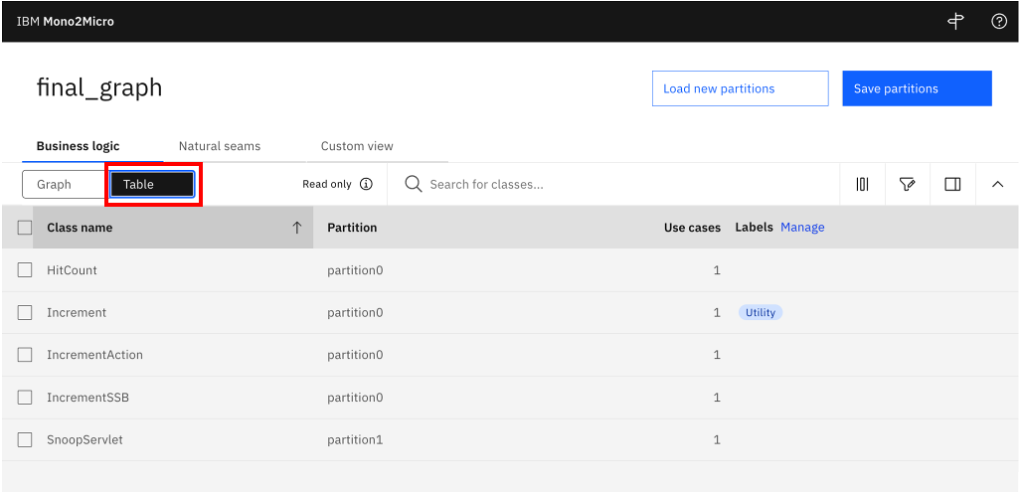
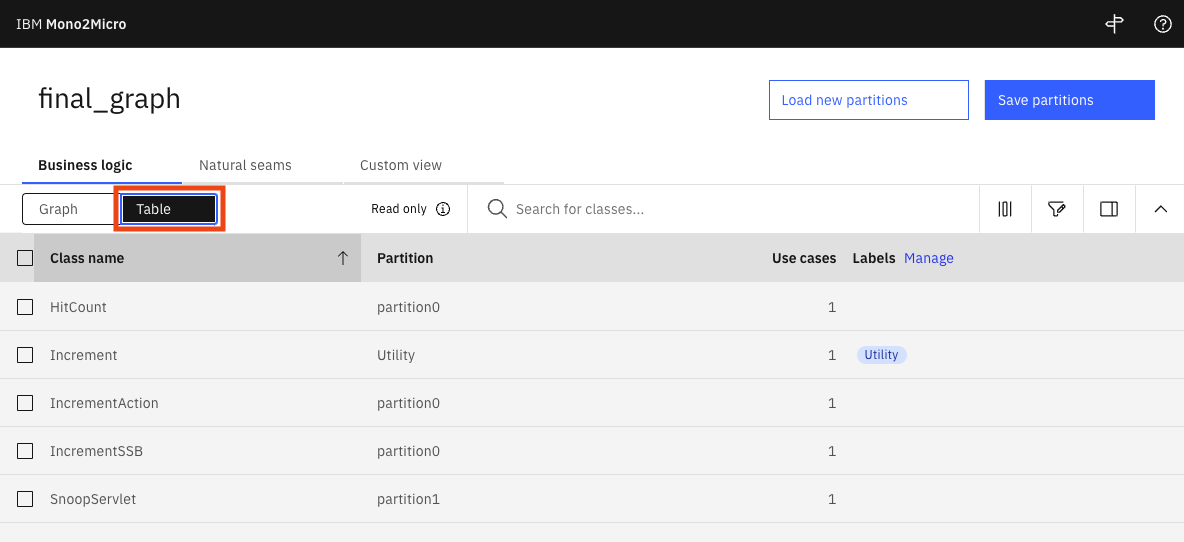
improving explanation about utility partition

diff --git a/1152-Mono2Micro-refactorJavaAppsToMicroservices/README.md b/1152-Mono2Micro-refactorJavaAppsToMicroservices/README.md
@@ -540,7 +540,7 @@ command line tool.
     command output:     
         
         accept_license_flag = true
-        license_key = L-CQBY-93TJUZ
+        license_key = L-KNAV-6S5BZN
 
     b. view the configuration
 
@@ -548,7 +548,7 @@ command line tool.
     
     command output: 
 
-        update_check_last = 2023-04-14
+        update_check_last = 2023-06-27
         license_type = 2
         container_engine = docker
         update_check_frequency = 30
@@ -1345,15 +1345,15 @@ In this exercise, we will ensure that the Web components(Servlets,
  
     ![](./images/media/image55.png)
 
-    Note that by using “Table” mode the classes can have labels. When the AI engine recognizes a class as a “Utility” class, it automatically displays on the Workbench UI the “Utility” label on the “Table” mode. A Utility class defines a set of methods that perform common tasks.
+    Note that by using “Table” mode the classes can have labels. When the AI engine recognizes a class as a “Utility” class, it automatically displays on the Workbench UI the “Utility” label on the “Table” mode and places it on a "Utility" group. A Utility class defines a set of methods that perform common tasks. Utility classes mostly have incoming method calls from other classes in the application. They might also have, or alternatively have, mostly static member fields and methods, and various other characteristics.
 
 2.  If you explored other views, return to the “**Business Logic”** view in “**Graph**” Mode
 
     ![Graphical user interface, diagram, application, Teams Description automatically generated](./images/media/image53_b.png)
 
-    It is important to notice that the same class labeled as “Utility” on the “Table” mode appears in “Graph” mode as diamond-shaped inside a specific group called "Utility". Utility classes mostly have incoming method calls from other classes in the application. They might also have, or alternatively have, mostly static member fields and methods, and various other characteristics that the AI engine determines are likely utilitarian.
+    It is important to notice that the same class labeled as “Utility” on the “Table” mode appears in “Graph” mode as diamond-shaped inside a specific group called "Utility".
 
-3.  From the Business Logic view, notice that there are two
+3.  From the Business Logic view, notice that there are three
     **partitions** created. It could be cases where one special partition for
     “**Unobserved**” classes is created as well.
 
@@ -1366,7 +1366,7 @@ In this exercise, we will ensure that the Web components(Servlets,
     incomplete set of test cases for adequate code coverage.
 
 
-4.  Explore the Java classes in partition0 and partition1
+4.  Explore the Java classes in partition0, partition1, and Utility partition
     
     a.  **Double-click** on each of the **partition**s to display the
         number of Java classes in each partition
@@ -1376,10 +1376,6 @@ In this exercise, we will ensure that the Web components(Servlets,
     - **Partiton0** contains three classes (HitCount, IncrementAction, 
     and IncrementSSB) which the classes that were identified
     as part of the “**hitcount”** use case from our test cases.
-    
-     <<< TODO: decide if keep it or not - Within partition0, you can see that mono2micro observed
-        intra-partition communication, as indicated by the lines between
-        the classes**.** >>>
 
     - **Partiton1** contains one class (SnoopServlet) which is the only
     class that was observed in the “snoop” test case
@@ -1390,9 +1386,9 @@ In this exercise, we will ensure that the Web components(Servlets,
     - As you can see, there are **no lines** between these partitions,
     indicating that there is no partition to partition
     (inter-partitioning) communication observed between the classes in
-    partition 0 and partition1.
+    partition0, partition1, and Utility partition.
     
-      - This is because the initial partition recommendations placed all the classes that communicate in the **hitcount** use case into a single partition.
+      - This is because the initial partition recommendations placed all the classes that communicate in the **hitcount** use case into a single partition. Also, by default the inter-partitioning communication to **Utility** partition is disabled.
 
 
     The initial partitioning recommendations are a starting point and generated taking into consideration based on the business logic and natural seams that were discovered during the analysis.
@@ -1417,7 +1413,7 @@ the Java servlet classes which are referred to by the html file.
 The goal of this lab is to split the Default Application monolith into
 separate microservices such that:
 
-  - The **(Front-end**) Web components run as a microservice
+  - The **(front-end**) Web components run as a microservice
 
   - The (**back-end**) EJB and data layer run as a separate microservice
 
@@ -1437,11 +1433,13 @@ generated](./images/media/image58.png)
 Tweaking the business logic recommendations is straight forward using
 the UI, and includes these basic steps, which you will do next:
 
+-  **Move Increment (Entity) class to the partition0**. All three classes in **partition0** depend on **Increment** and **SnoopServlet** does not depend on **Increment**.
+
 -  **Rename partition1 to web**. This is not required but illustrates
     the capability to create partitions with names that make sense. This
     is useful during the code generation phase.
 
--  **Move HitCount Servlet (Service Entry) class to the web partition**. All the Servlets and other front-end components should     be here.
+-  **Move HitCount Servlet (Service Entry) class to the web partition**. All the Servlets and other front-end components should be here.
 
 
 
@@ -1472,11 +1470,21 @@ the UI, and includes these basic steps, which you will do next:
 
 3. Move the **Increment** (Entity) class to the "**partition0**" partition
 
-    Since just one class was identified as "**Utility**", it can be moved to another partition for the simplicity of the current example. In real-world large Java applications, multiple classes can be part of the "**Utility**" partition. In this case, you may package any application classes in "**Utility**" as a utility .jar file and then place it in all other partitions that depend on those utility classes.
+    a. Click on **Increment** class from **Utility** partition
+
+    ![](./images/media/image62_a.png)
+
+    Note that all three classes in **partition0** have arrows pointing to **Increment** in **Utility** partition. This means that those classes depend on **Increment**. Similarly, we can conclude that **SnoopServlet** does not depend on **Increment** because there are no arrows between them. 
+    
+    Thus, we can simplify the graph by moving **Increment** from **Utility** to **partition0**. However, in real-world large Java applications, multiple classes can be part of the "**Utility**" partition. In that case, you may package any application classes in "**Utility**" as a utility .jar file and then place it in all other partitions that depend on those utility classes.
  
-    a.  Drag and Drop the **Increment** class from **Utility** partition to the **partition0** partition. 
+    b.  Drag and Drop the **Increment** class from **Utility** partition to the **partition0** partition. 
 
     ![](./images/media/image62_b.png)
+
+    c. The **Increment** class is now located in the **partition0**.
+
+    ![](./images/media/image62_c.png)
 
 4.  Rename “partition1” to “web”
     
